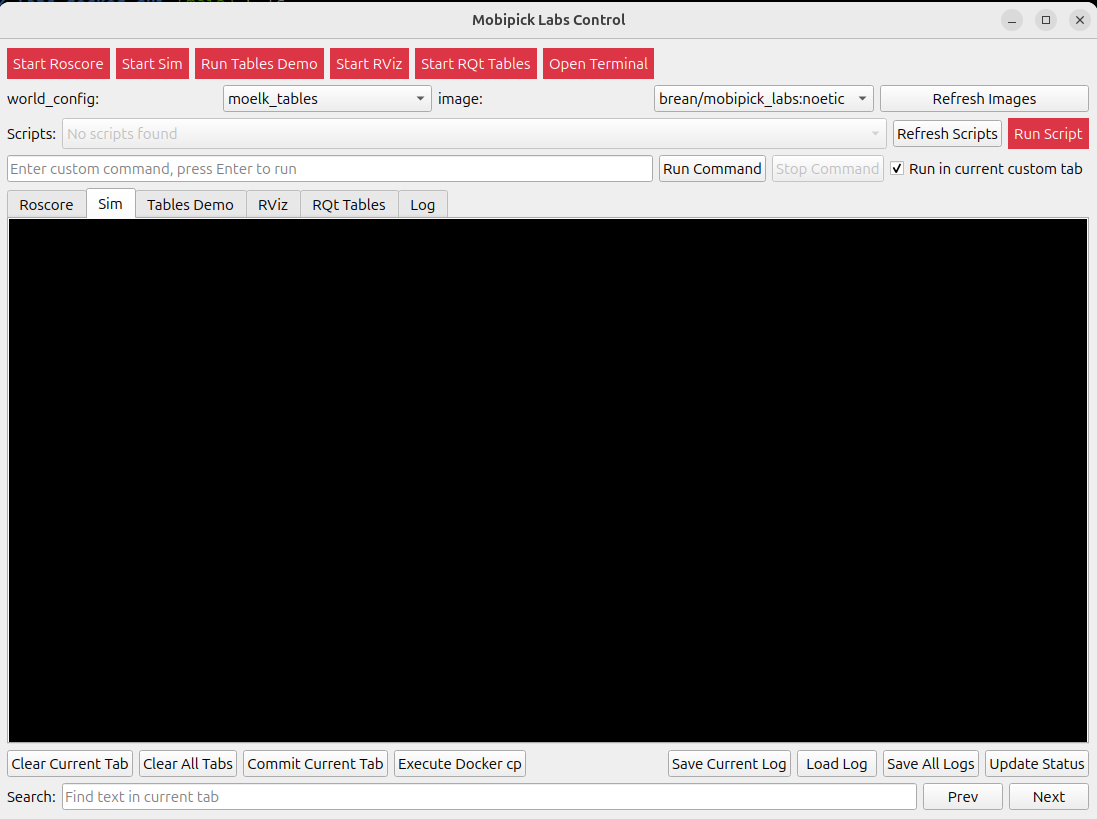
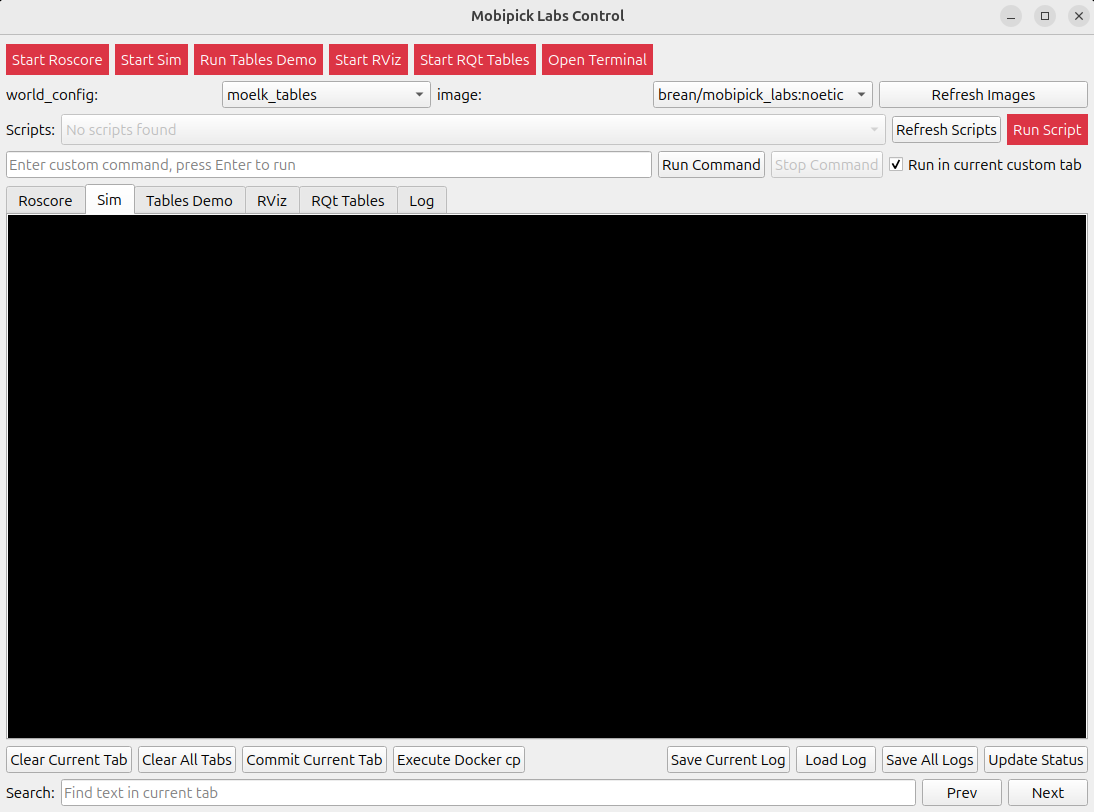
make gui image smaller and better cropped

Changed region(s): [[0.0, 0.0, 0.9945, 0.2771], [0.0, 0.8929, 0.9945, 1.0], [0.9013, 0.0, 1.0, 0.0308]]

diff --git a/README.md b/README.md
@@ -8,7 +8,7 @@ The GUI reads the bundled configuration files, runs Docker commands on your
 behalf, and streams live logs so you can follow what is happening in each
 container.
 
-![mobipick_tables_sim_and_real.png](doc/mobipick_labs_docker_gui.png)
+<img src="doc/mobipick_labs_docker_gui.png" alt="mobipick tables sim and real" width="420">
 
 ## Repository layout
 
